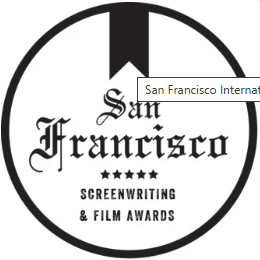
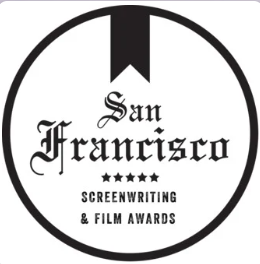
Add files via upload

Changed region(s): [[0.0, 0.0, 1.0, 1.0], [0.3077, 0.6462, 0.6769, 0.7692], [0.3077, 0.8, 0.6769, 0.8615]]

diff --git a/cipherghost-codex-stage.html b/cipherghost-codex-stage.html
@@ -466,8 +466,7 @@
           <span class="award-text"><strong>2025 Finalist</strong><br/><span>Official Selection · Chicago Script Awards</span></span>
         </a>
         <a href="https://writeinsanfrancisco.com/" target="_blank" class="award-badge" style="margin-bottom:0;">
-          <img src="sf_screenwriting_awards.png" alt="San Francisco International Screenwriting Competition & Film Awards"
-               style="width:120px;height:auto;object-fit:contain;flex-shrink:0;"/>
+          <img src="sf_screenwriting_awards.png" alt="San Francisco International Screenwriting Competition & Film Awards" class="award-logo"/>
           <span class="award-text"><strong>2025 Quarter-Finalist</strong><br/><span>San Francisco Int'l Screenwriting &amp; Film Awards</span></span>
         </a>
       </div>
@@ -500,7 +499,7 @@
     </div>
     <div style="display:flex;gap:1.3rem;align-items:center;flex-wrap:wrap;">
       <img src="sf_screenwriting_awards.png" alt="San Francisco International Screenwriting Competition & Film Awards"
-           style="width:140px;height:auto;object-fit:contain;flex-shrink:0;"/>
+           style="width:92px;height:92px;object-fit:contain;flex-shrink:0;"/>
       <div style="flex:1;min-width:240px;">
         <p style="margin-bottom:.55rem;"><strong>2025 Quarter-Finalist</strong> &mdash; <a href="https://writeinsanfrancisco.com/" target="_blank" style="color:var(--gold);text-decoration:none;font-weight:600;">San Francisco International Screenwriting Competition &amp; Film Awards &#8599;</a>.</p>
         <p style="margin:0;">An online-only celebration recognizing standout screenwriting talent from submissions worldwide.</p>
